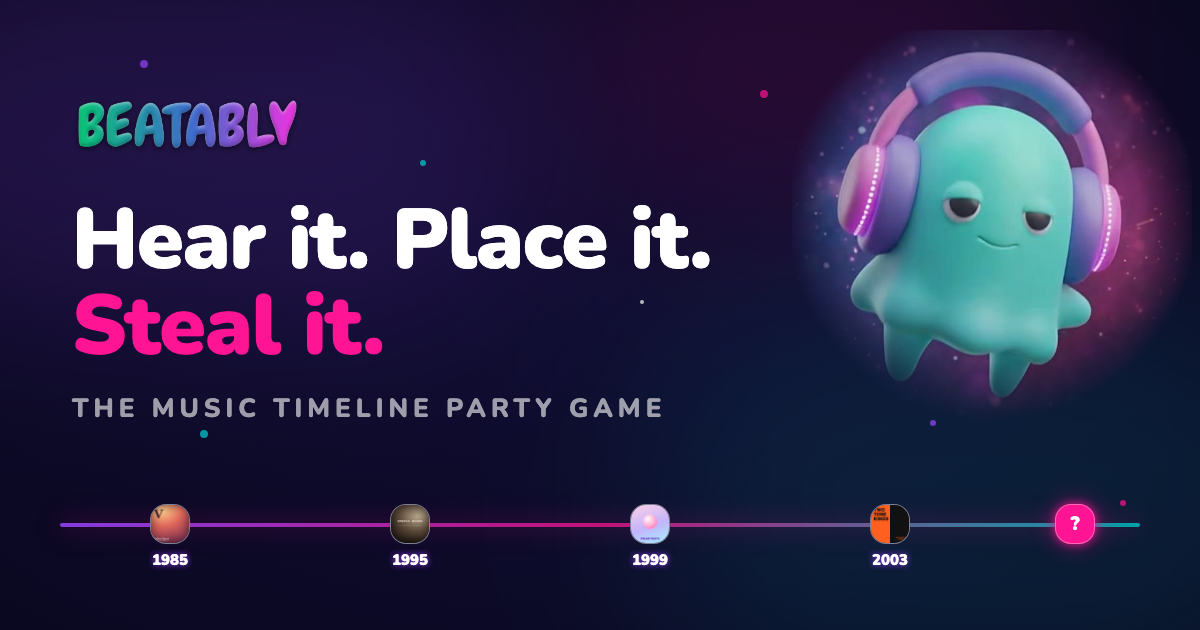
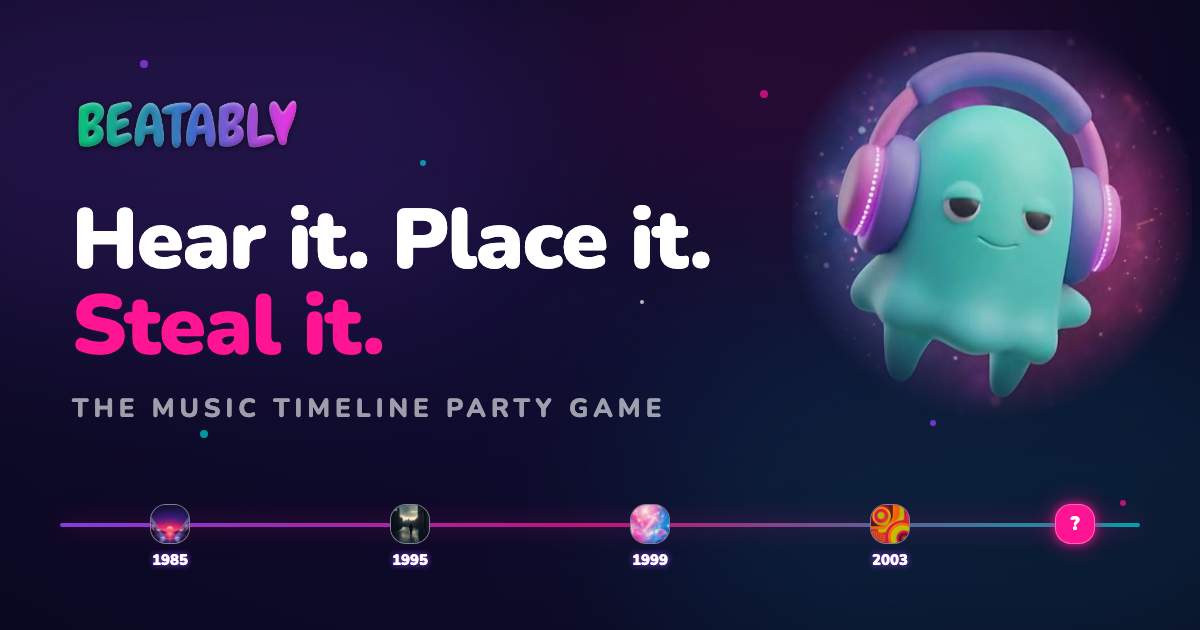
feat(web): real song names + premium generated album art in demos
- Restore real track/artist/year in sections 02/03/04 (naming a song and
  its release year is factual, not a rights issue — only album artwork was)
- Replace the flat CSS covers with premium, era/genre-evocative album art
  generated via GPT Image 2 (image-gen skill). Original artwork, not the
  real covers; person-free to avoid implying a generated face is the artist
- Compact 320px JPGs; regenerate og-image with the new covers

diff --git a/frontend/src/landing/demoSongs.js b/frontend/src/landing/demoSongs.js
@@ -1,30 +1,28 @@
-// Fictional songs for the ILLUSTRATIVE demos (sections 02 Place, 03 Earn,
-// 04 Challenge). Artist/title/artwork are all invented — the covers are
-// original generated art in /img/landing/covers — so nothing here uses real
-// Apple Music artwork or metadata. Years are chosen so the demo choreography
-// (insert positions, steal ordering) reads correctly. Real songs with real
-// playback live only in the interactive "Your turn" section (see realSongs.js).
+// Songs for the ILLUSTRATIVE demos (sections 02 Place, 03 Earn, 04 Challenge).
+// Titles/artists/years are REAL — those are facts, not copyrightable, so naming
+// a track and its release year is fine. The ALBUM ART is NOT the real cover:
+// each `art` is original, generated, era/genre-evocative artwork (see
+// /img/landing/covers), so no label-owned artwork is used here.
 //
-// Object keys are internal handles kept stable so the demo components don't
-// need to change; they do NOT refer to real tracks.
+// Real songs with real Apple Music artwork + playback live only in the
+// interactive "Your turn" section (see realSongs.js).
 
-const cover = (n) => `/img/landing/covers/cover-${n}.png`;
-const song = (id, title, artist, year, coverN) => ({
+const song = (id, title, artist, year) => ({
   id,
   title,
   artist,
   year,
-  art: cover(coverN),
+  art: `/img/landing/covers/${id}.jpg`,
 });
 
 export const SONGS = {
-  takeOnMe: song('demo-a', 'Slow Rivers', 'Velvet Hours', 1985, '01'),
-  likeAPrayer: song('demo-b', 'Paper Cathedral', 'Vela', 1989, '10'),
-  wonderwall: song('demo-c', 'Cassette Summer', 'The Static Hours', 1995, '03'),
-  babyOneMoreTime: song('demo-d', 'Sugar Static', 'Polar Youth', 1999, '04'),
-  heyYa: song('demo-e', 'Boombox Gospel', 'Two-Tone Kings', 2003, '05'),
-  mrBrightside: song('demo-f', 'Fever Lights', 'Midnight Arcade', 2004, '06'),
-  umbrella: song('demo-g', 'Cloudburst', 'Marisol Rae', 2008, '07'),
-  rollingInTheDeep: song('demo-h', 'Undertow', 'Ash & Ember', 2011, '08'),
-  blindingLights: song('demo-i', 'Chrome Horizon', 'VHS Dreams', 2020, '09'),
+  takeOnMe: song('take-on-me', 'Take on Me', 'a-ha', 1985),
+  likeAPrayer: song('like-a-prayer', 'Like a Prayer', 'Madonna', 1989),
+  wonderwall: song('wonderwall', 'Wonderwall', 'Oasis', 1995),
+  babyOneMoreTime: song('baby-one-more-time', '...Baby One More Time', 'Britney Spears', 1999),
+  heyYa: song('hey-ya', 'Hey Ya!', 'OutKast', 2003),
+  mrBrightside: song('mr-brightside', 'Mr. Brightside', 'The Killers', 2004),
+  umbrella: song('umbrella', 'Umbrella', 'Rihanna', 2008),
+  rollingInTheDeep: song('rolling-in-the-deep', 'Rolling in the Deep', 'Adele', 2011),
+  blindingLights: song('blinding-lights', 'Blinding Lights', 'The Weeknd', 2020),
 };